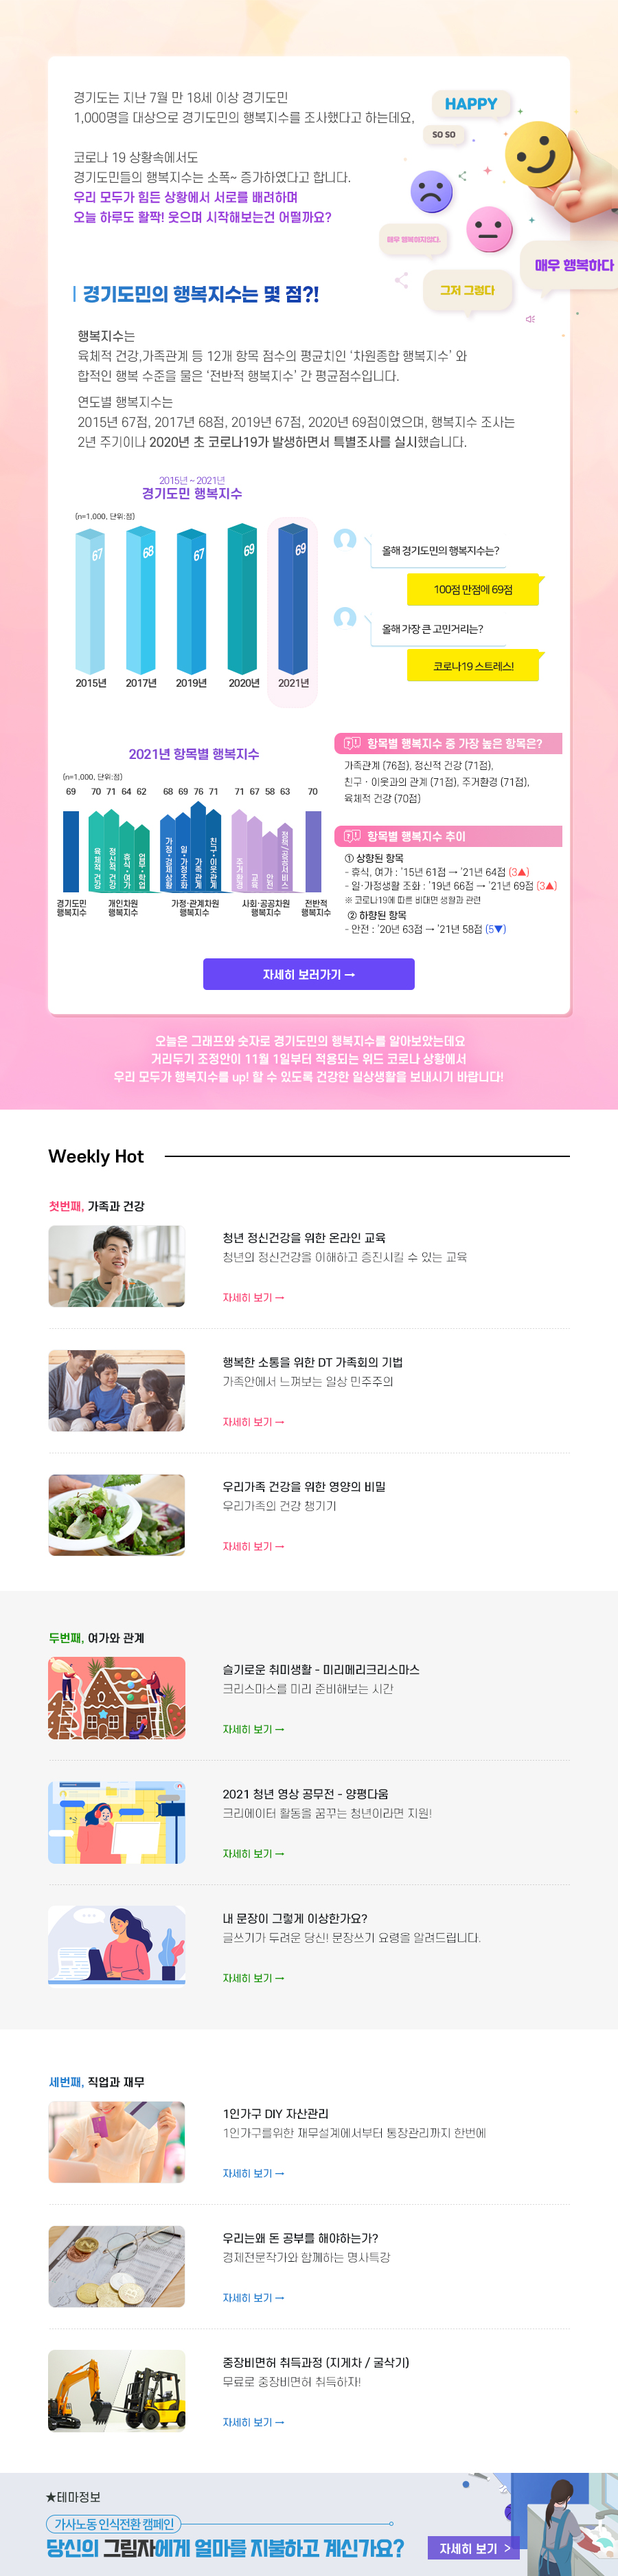
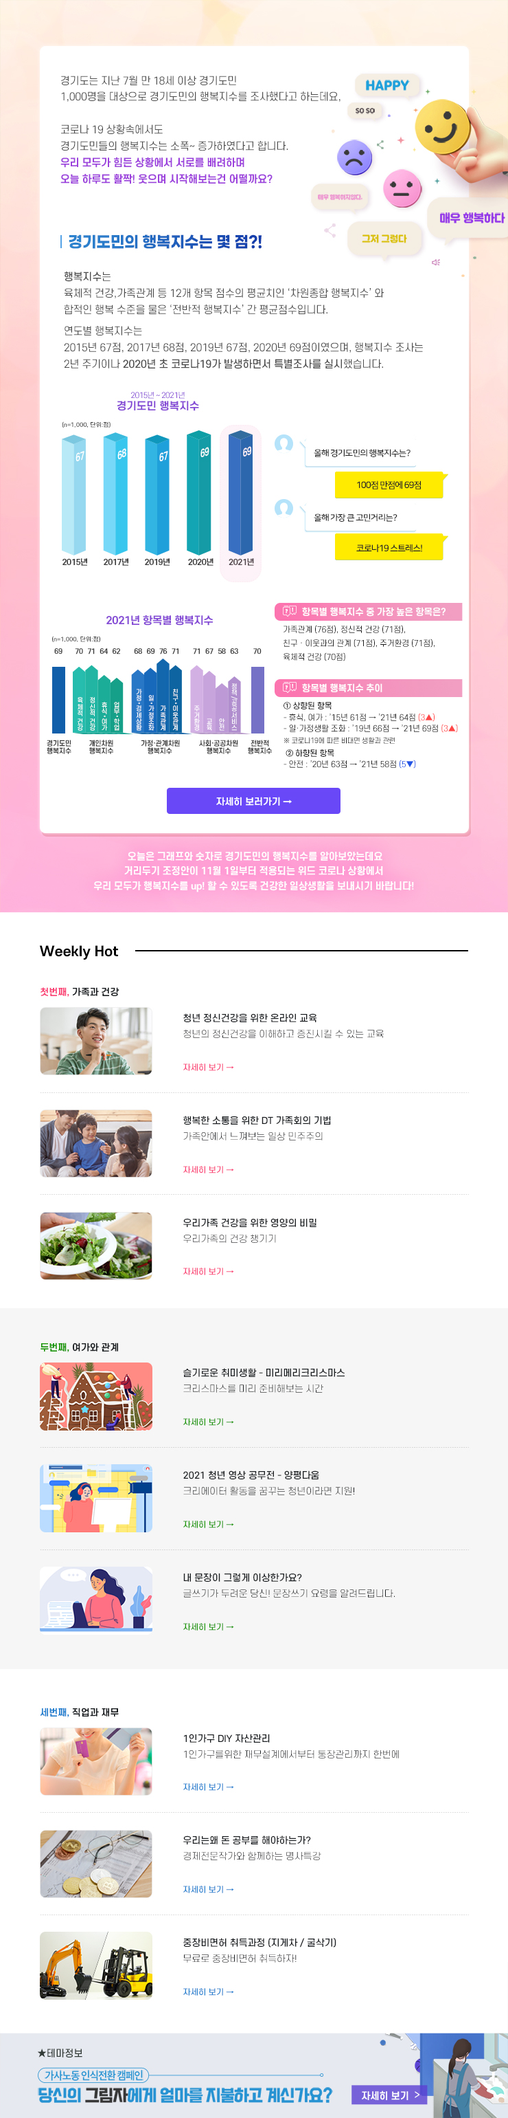
테마32호

diff --git a/webzine/32.html b/webzine/32.html
@@ -86,41 +86,20 @@
 							cellspacing="0" cellpadding="0">
 							<tbody>
 								<tr>
-									<img src="https://13b.kgoon.pw/images/img_wz32.png" usemap="#image-map">
+									<img src="https://13b.kgoon.pw/images/img_wz32.jpg" usemap="#image-map">
 
 									<map name="image-map">
-										<area target="_blank" alt="자세히보러가기" title="자세히보러가기"
-											href="https://gnews.gg.go.kr/briefing/brief_gongbo_view.do?BS_CODE=S017&amp;number=50879"
-											coords="297,1394,605,1441" shape="rect">
-										<area target="_blank" alt="청년 정신건강을 위한 온라인 교육" title="청년 정신건강을 위한 온라인 교육"
-											href="https://13b.gg.go.kr/content/10595" coords="70,1784,836,1902"
-											shape="rect">
-										<area target="_blank" alt="행복한 소통을 위한  DT 가족회의 기법"
-											title="행복한 소통을 위한  DT 가족회의 기법" href="https://13b.gg.go.kr/content/10582"
-											coords="71,1965,842,2084" shape="rect">
-										<area target="_blank" alt="우리가족 건강을 위한 영양의 비밀" title="우리가족 건강을 위한 영양의 비밀"
-											href="https://13b.gg.go.kr/content/10593" coords="71,2144,842,2262"
-											shape="rect">
-										<area target="_blank" alt="슬기로운 취미생활 - 미리메리크리스마스" title="슬기로운 취미생활 - 미리메리크리스마스"
-											href="https://13b.gg.go.kr/content/10588" coords="69,2411,848,2529"
-											shape="rect">
-										<area target="_blank" alt="2021 청년 영상 공모전 - 양평다움 "
-											title="2021 청년 영상 공모전 - 양평다움 " href="https://13b.gg.go.kr/content/10596"
-											coords="71,2592,848,2711" shape="rect">
-										<area target="_blank" alt="내 문장이 그렇게 이상한가요?" title="내 문장이 그렇게 이상한가요?"
-											href="https://13b.gg.go.kr/content/10594" coords="69,2772,847,2894"
-											shape="rect">
-										<area target="_blank" alt="1인가구 DIY 자산관리" title="1인가구 DIY 자산관리"
-											href="https://13b.gg.go.kr/content/10592" coords="73,3056,835,3173"
-											shape="rect">
-										<area target="_blank" alt="우리는 왜 돈 공부를  해야하는가?" title="우리는 왜 돈 공부를  해야하는가?"
-											href="https://13b.gg.go.kr/content/10591" coords="74,3241,829,3356"
-											shape="rect">
-										<area target="_blank" alt="중장비면허 취득과정 (지게차/굴삭기)" title="중장비면허 취득과정 (지게차/굴삭기)"
-											href="https://13b.gg.go.kr/content/10589" coords="71,3421,827,3535"
-											shape="rect">
-										<area target="_blank" alt="가사노동 인식전환 캠페인" title="가사노동 인식전환 캠페인" href="https://13b.gg.go.kr/thema/tm_11"
-											coords="0,3602,898,3746" shape="rect">
+										<area target="_blank" alt="자세히 보러가기 →" title="자세히 보러가기 →" href="https://gnews.gg.go.kr/briefing/brief_gongbo_view.do?BS_CODE=S017&amp;number=50879" coords="245,1145,494,1183" shape="rect">
+										<area target="_blank" alt="청년 정신건강을 위한 온라인 교육" title="청년 정신건강을 위한 온라인 교육" href="https://13b.gg.go.kr/content/10595" coords="60,1467,677,1565" shape="rect">
+										<area target="_blank" alt="행복한 소통을 위한  DT 가족회의 기법" title="행복한 소통을 위한  DT 가족회의 기법" href="https://13b.gg.go.kr/content/10582" coords="58,1617,677,1711" shape="rect">
+										<area target="_blank" alt="우리가족 건강을 위한 영양의 비밀" title="우리가족 건강을 위한 영양의 비밀" href="https://13b.gg.go.kr/content/10593" coords="58,1763,676,1862" shape="rect">
+										<area target="_blank" alt="슬기로운 취미생활 - 미리메리크리스마스" title="슬기로운 취미생활 - 미리메리크리스마스" href="https://13b.gg.go.kr/content/10588" coords="59,1980,671,2083" shape="rect">
+										<area target="_blank" alt="2021 청년 영상 공모전 - 양평다움 " title="2021 청년 영상 공모전 - 양평다움 " href="https://13b.gg.go.kr/content/10596" coords="59,2132,671,2229" shape="rect">
+										<area target="_blank" alt="내 문장이 그렇게 이상한가요?" title="내 문장이 그렇게 이상한가요?" href="https://13b.gg.go.kr/content/10594" coords="60,2280,674,2377" shape="rect">
+										<area target="_blank" alt="1인가구 DIY 자산관리" title="1인가구 DIY 자산관리" href="https://13b.gg.go.kr/content/10592" coords="60,2514,676,2611" shape="rect">
+										<area target="_blank" alt="우리는 왜 돈 공부를  해야하는가?" title="우리는 왜 돈 공부를  해야하는가?" href="https://13b.gg.go.kr/content/10591" coords="61,2664,677,2761" shape="rect">
+										<area target="_blank" alt="중장비면허 취득과정 (지게차/굴삭기)" title="중장비면허 취득과정 (지게차/굴삭기)" href="https://13b.gg.go.kr/content/10589" coords="60,2812,685,2908" shape="rect">
+										<area target="_blank" alt="가사노동 인식전환 캠페인" title="가사노동 인식전환 캠페인" href="https://13b.gg.go.kr/thema/tm_11" coords="" shape="rect">
 									</map>
 								</tr>
 								<tr>
